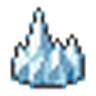
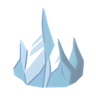
メガグソクムシャ・メガセグレイブの立ち絵を追加し、とけないこおりを高解像度にする
立ち絵は通常形のimageIdへ解決されていたので専用IDを上書き表に足す。
とけないこおりは24pxソースの拡大だったため、96pxソースから作り直す。
差分再生成用に --image-ids / --items を各スクリプトへ追加した。

Claude-Session: https://claude.ai/code/session_01FYif9HoKFukCQUgaUqnBoe

diff --git a/scripts/pokemon-artwork/generate_pokemon_artwork.py b/scripts/pokemon-artwork/generate_pokemon_artwork.py
@@ -95,9 +95,20 @@ def fetch(image_id: int) -> bytes | None:
 def main() -> None:
     parser = argparse.ArgumentParser(description="公式絵を縮小+WebP変換して public/pokemon-artwork/ に配置する")
     parser.add_argument("--force", action="store_true", help="既に存在する画像も処理し直す")
+    parser.add_argument(
+        "--image-ids",
+        help="処理するimageIdをカンマ区切りで指定する(欠損分だけを追加するとき用)",
+    )
     args = parser.parse_args()
 
     image_ids = load_image_ids()
+    if args.image_ids:
+        requested_ids = {int(value) for value in args.image_ids.split(",") if value.strip()}
+        known_ids = set(image_ids)
+        unknown_ids = requested_ids - known_ids
+        if unknown_ids:
+            parser.error(f"pokemon.json にないimageIdが指定されました: {sorted(unknown_ids)}")
+        image_ids = sorted(requested_ids)
     OUT_DIR.mkdir(parents=True, exist_ok=True)
 
     targets = [i for i in image_ids if args.force or not (OUT_DIR / f"{i}.webp").exists()]

diff --git a/scripts/build-master-data/extract_autocomplete.py b/scripts/build-master-data/extract_autocomplete.py
@@ -91,6 +91,9 @@ _IMAGE_ID_OVERRIDES: dict[str, int] = {
     "ニャオニクス(メス)": 10025,  # meowstic-female
     "メガニャオニクス(オス)": 10314,  # meowstic-male-mega
     "メガニャオニクス(メス)": 10326,  # meowstic-female-mega
+    # グソクムシャ / セグレイブ: Legends Z-A で追加されたメガシンカ。
+    "メガグソクムシャ": 10316,  # golisopod-mega
+    "メガセグレイブ": 10325,  # baxcalibur-mega
     # オドリドリ(ふらふらスタイル): oricorio-pau
     "オドリドリ(ふらふら)": 10124,  # oricorio-pau
     # ネクロズマ: necrozma-dusk(たそがれのたてがみ) / necrozma-dawn(あかつきのつばさ)
